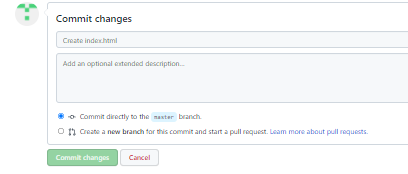
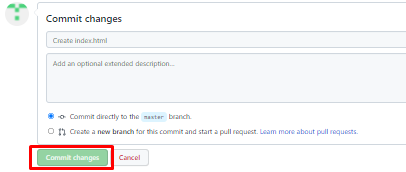
online commit

Changed region(s): [[0.0, 0.0, 1.0, 0.9884]]

diff --git a/index.html b/index.html
@@ -199,7 +199,7 @@
 	</div>
 
 
-	<div class="row1" style=" margin-top: 0px;">
+	<div class="row1" style=" margin-top: 0px; padding-bottom: 5px; padding-top: 12px">
 		<p>
 			<center>
 				<h3><b>12. Editing Online</b></h3>
@@ -213,6 +213,22 @@
 			<br>
 			When You are in a branch you can edit a file on your online Repository by clicking on the edit button as shown in the Picture. <br>
 			Branches are Explained below i=on this page.
+		</p>
+	</div>
+
+	<div class="row2" style=" margin-top: -333px;">
+		<p>
+			<center>
+				<h3><b>13.Github online Commit</b></h3>
+			</center>
+		</p>
+		<img src="Screenshot_15.png" style="border-style: dashed;"   >
+		<p style="margin-left: 8%; margin-right: 7%; ">
+			<b>
+				Committing Changes on Github.
+			</b>
+			<br>
+			When you commit on github it saves your repository state. Just like it does on your local Repository.
 		</p>
 	</div>
 
